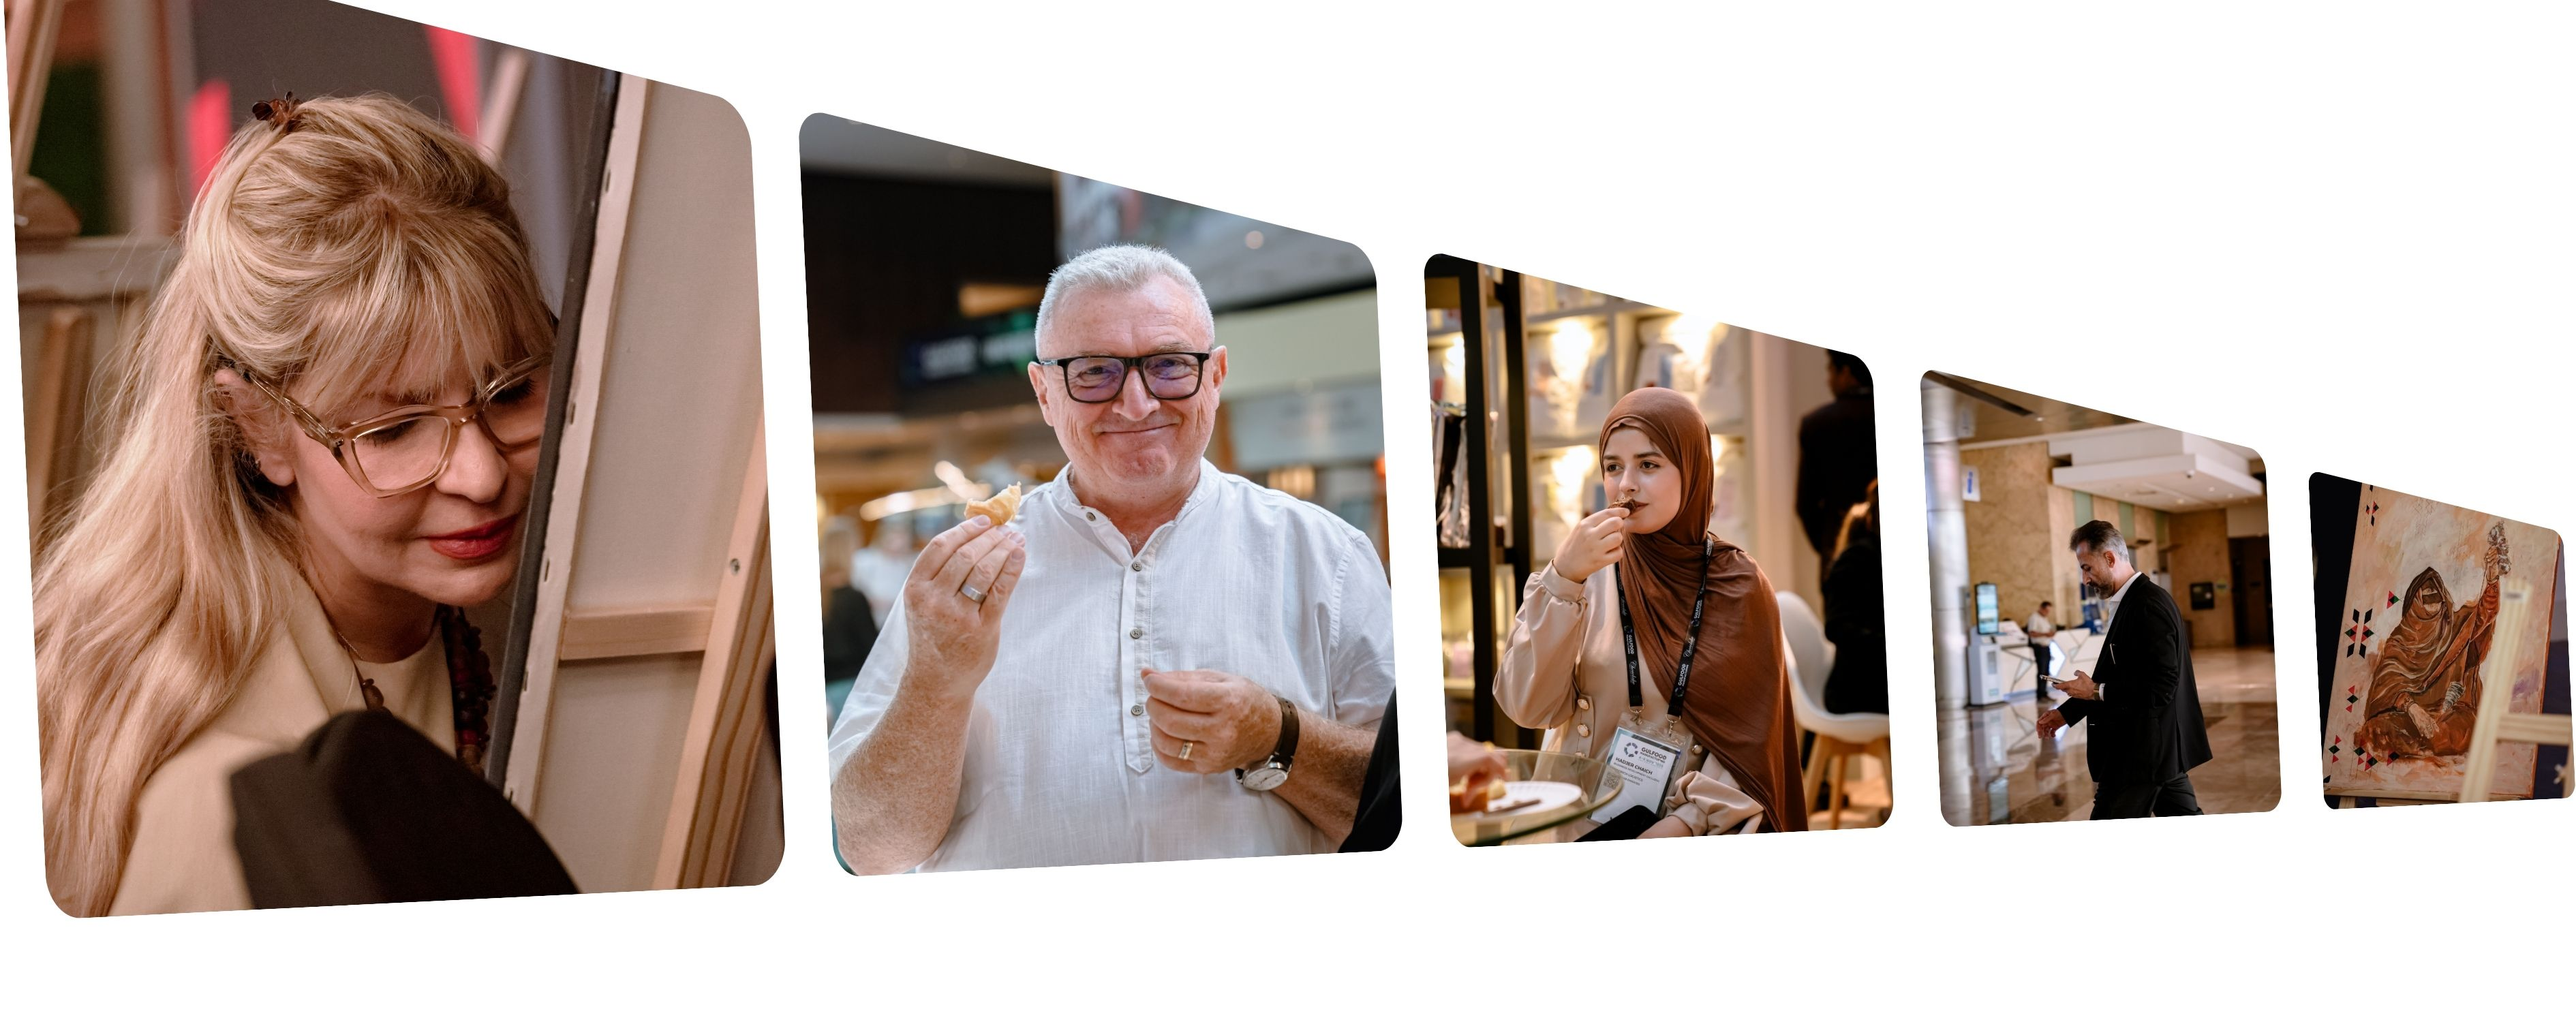
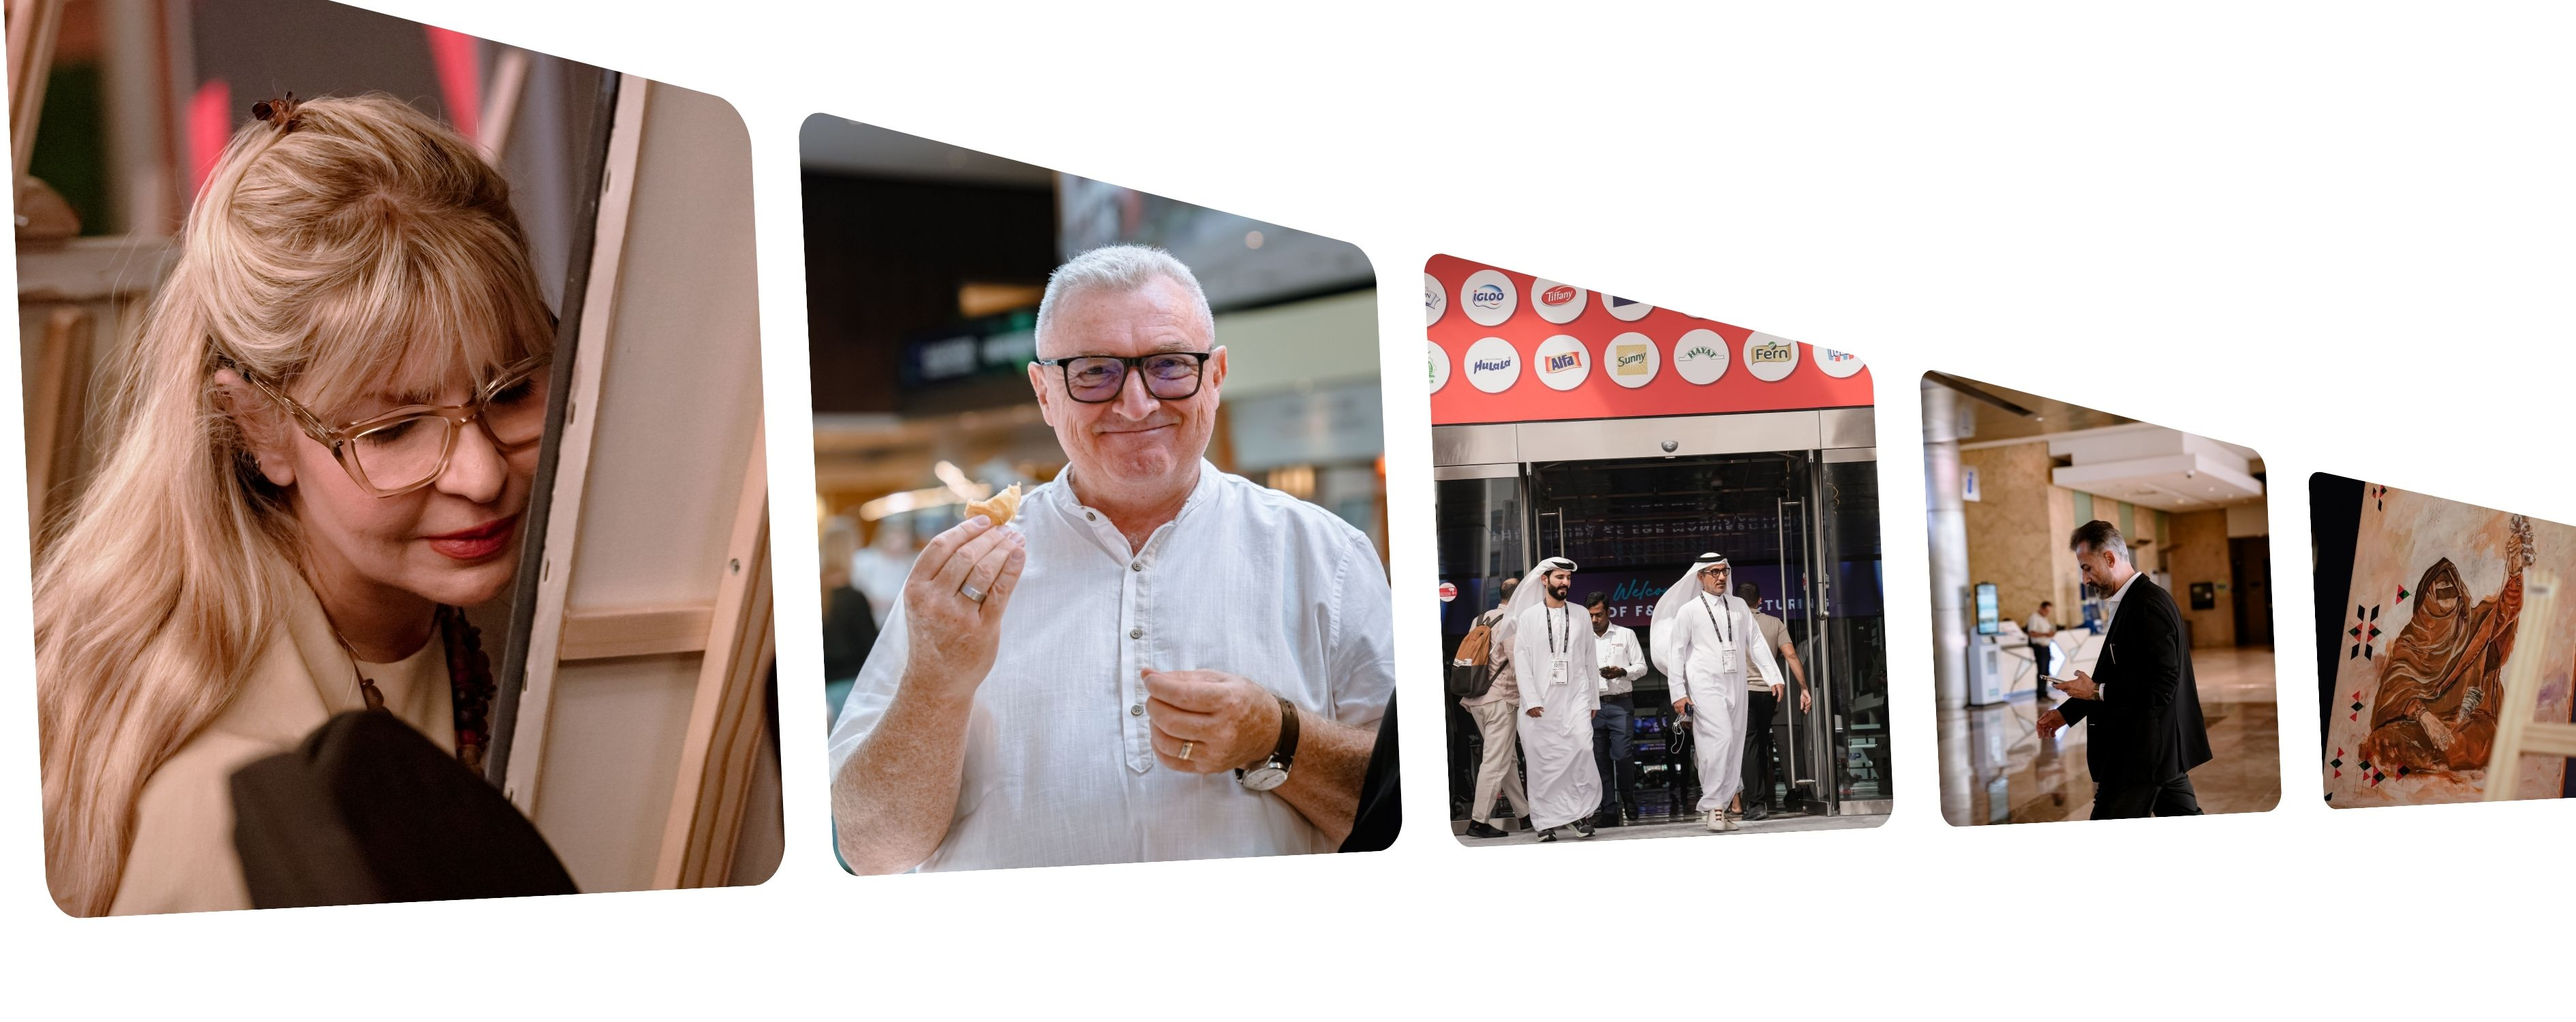
Updated portfolio

Changed region(s): [[0.5307, 0.2453, 0.7492, 0.828], [0.9053, 0.46, 1.0, 0.7973]]

diff --git a/src/components/Highlights.jsx b/src/components/Highlights.jsx
@@ -83,7 +83,7 @@ const Highlights = () => {
     <section className="py-10 md:py-20 bg-transparent relative overflow-hidden">
       <div className="px-[6%] mb-2 md:mb-10 text-center md:text-left">
         <h2
-          className="text-white text-4xl md:text-7xl font-bold uppercase tracking-tighter"
+          className="text-white text-3xl md:text-6xl font-bold uppercase tracking-tighter"
           style={{ fontFamily: "Syncopate, sans-serif" }}
         >
           Highlights

diff --git a/src/components/Banner.jsx b/src/components/Banner.jsx
@@ -177,6 +177,7 @@ const Banner = () => {
   .role-title { letter-spacing: 0.3em; margin: 10px 0 20px; }
   .description-box { font-size: 0.8rem; max-width: 60%; }
   .luxury-cta { display: none; }
+   .premium-badge { font-size: 0.50rem; }
   .video-background video { transform: scale(1); }
 
   /* ⭐ CINEMATIC MOBILE FIX */

diff --git a/src/pages/WorkGallery.jsx b/src/pages/WorkGallery.jsx
@@ -519,8 +519,8 @@ const WorkGallery = () => {
             type: "grid3",
             ids: [
               [4, 5, 9],
-              [8, 2, 6],
-              [7, 10, 3],
+              [2, 3, 6],
+              [7, 10, 8],
             ],
             mobileIds: [4, 5, 9, 8, 2, 6, 7, 10, 3],
           },
